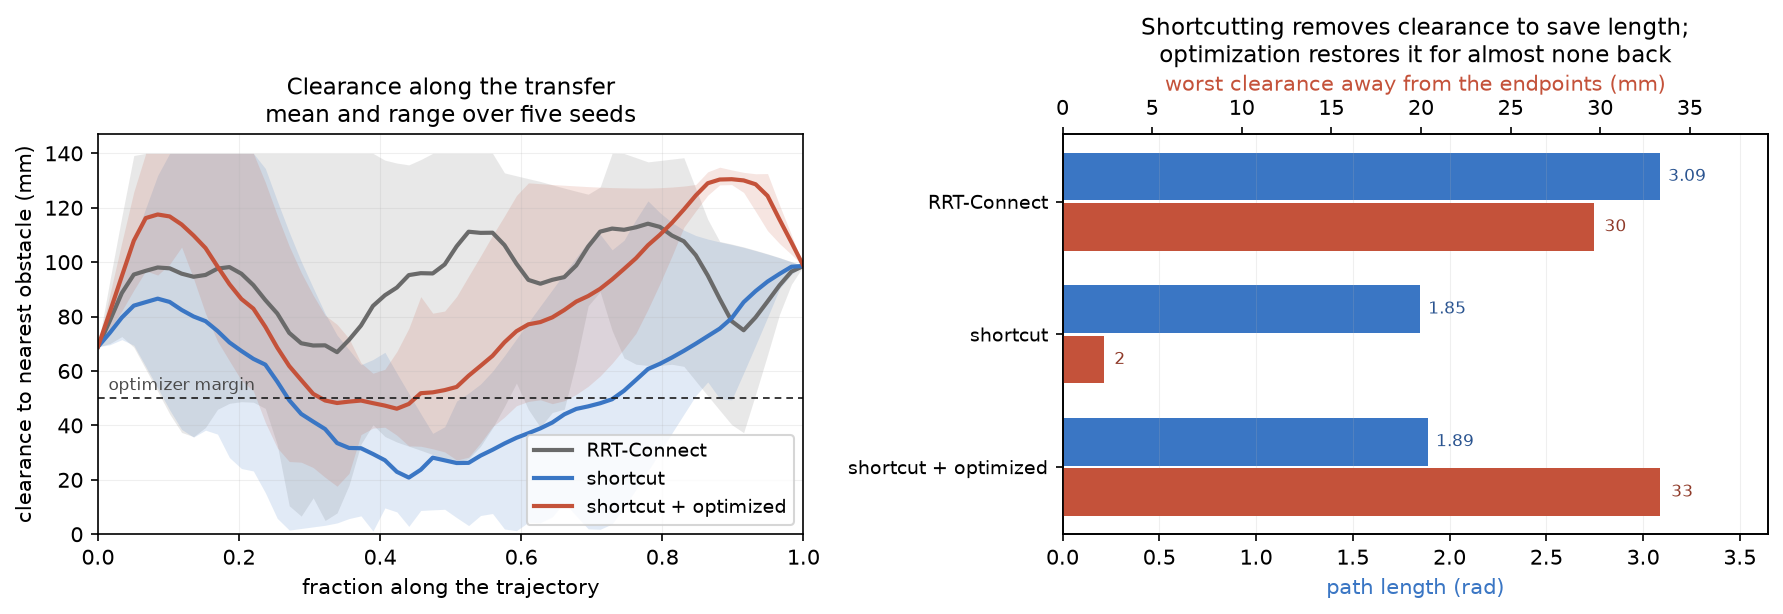
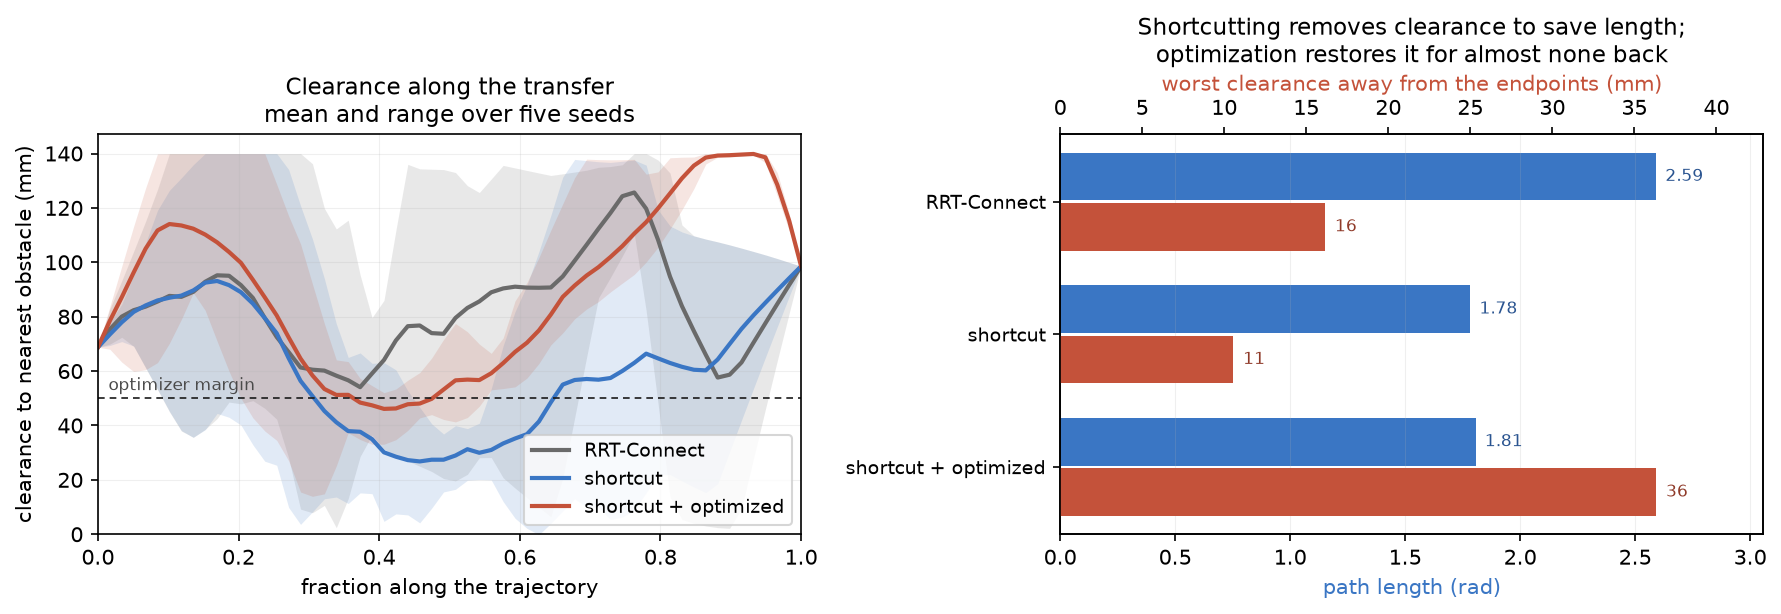
Fix the comparison figure measuring against a mutated world
The figure and examples/run_optimizer_demo.py reported different numbers
for the same query with the same seeds: 3.09 rad against 2.59 for
RRT-Connect. Both ran the same code, so the difference was state.

generate_readme_media.py runs the pick and place sequence before building
the figure, in one simulator. The sequence leaves three things changed, and
each had to be undone: the block ends at the place location rather than the
pick, it is no longer in the obstacle list, and the arm is parked at the
retreat pose. That last one is what produced most of the gap, since IK
seeds from the robot's current joint state, so the comparison was solving
for different endpoints entirely.

The general failure is that PyBullet state is global and mutable, and a
function measuring against a shared simulator either owns its own instance
or restores what it depends on. I found the three pieces one at a time by
guessing rather than by asking what the sequence changes.

Path lengths now agree exactly: 2.59, 1.78, 1.81. The README table is
corrected to the reproducible numbers, along with the percentages in the
prose around it, which were computed from the stale ones.

diff --git a/examples/generate_readme_media.py b/examples/generate_readme_media.py
@@ -28,7 +28,7 @@ from PIL import Image
 
 from src.collision import CollisionChecker
 from src.optimizer import TrajectoryOptimizer, resample
-from src.panda import HOME_CONFIGURATION, Panda
+from src.panda import FINGER_OPEN, HOME_CONFIGURATION, Panda
 from src.pick_place import PickPlace, place_held_body
 from src.rrt_connect import RRTConnect
 from src.scene import build
@@ -204,7 +204,6 @@ def main() -> None:
     panda = Panda(gui=False)
     scene = build("divided")
     checker = CollisionChecker(panda, obstacles=scene.bodies)
-    oracle = SignedDistanceOracle(panda, checker)
     optimizer = TrajectoryOptimizer(model, panda.lower_limits,
                                     panda.upper_limits)
 
@@ -226,8 +225,22 @@ def main() -> None:
     gif = make_gif(panda, result)
     print(f"  {gif} ({gif.stat().st_size / 1e6:.1f} MB)")
 
+    # A fresh checker: the pick and place sequence removes the block from
+    # the obstacle list when it grasps and does not restore it, so reusing
+    # that checker would plan the comparison in a world with no block in it.
+    # The sequence leaves the world changed: the block ends at the place
+    # location and is no longer in the obstacle list. Both have to be undone
+    # before measuring, or the comparison plans around a block that has
+    # already been moved and reports longer paths than the same query does
+    # from a clean start.
     print("building the comparison figure")
-    figure = make_comparison(panda, checker, oracle, optimizer, scene)
+    pb.resetBasePositionAndOrientation(result.block, *result.block_start)
+    panda.set_configuration(HOME_CONFIGURATION)
+    panda.set_gripper(FINGER_OPEN)
+    comparison_checker = CollisionChecker(panda, obstacles=scene.bodies)
+    oracle = SignedDistanceOracle(panda, comparison_checker)
+    figure = make_comparison(panda, comparison_checker, oracle, optimizer,
+                             scene)
     print(f"  {figure} ({figure.stat().st_size / 1e3:.0f} KB)")
 
     panda.disconnect()

diff --git a/README.md b/README.md
@@ -24,14 +24,14 @@ Five seeds on the transfer query, all twenty trajectories verified collision-fre
 
 | method | path length (rad) | roughness | interior clearance |
 | --- | --- | --- | --- |
-| RRT-Connect | 2.34 | 0.0248 | 21.0 mm |
-| shortcut | 1.67 | 0.0053 | 12.1 mm |
-| optimized | 2.12 | 0.0071 | 48.7 mm |
-| shortcut + optimized | 1.71 | 0.0039 | 46.8 mm |
+| RRT-Connect | 2.59 | 0.0319 | 16.5 mm |
+| shortcut | 1.78 | 0.0071 | 11.7 mm |
+| optimized | 2.26 | 0.0079 | 46.7 mm |
+| shortcut + optimized | 1.81 | 0.0042 | 36.6 mm |
 
-Shortcutting halves the roughness and shortens the path by 29 percent, and makes clearance worse: it splices straight lines with no notion of margin, so a shortcut passing a millimetre from the wall is accepted as readily as one with room to spare.
+Shortcutting cuts roughness by more than three quarters and shortens the path by 31 percent, and makes clearance worse: it splices straight lines with no notion of margin, so a shortcut passing a millimetre from the wall is accepted as readily as one with room to spare.
 
-Optimization nearly quadruples clearance for almost no length back. Running both keeps most of each.
+Optimization more than triples clearance over shortcutting alone, for two percent more path. Running both keeps most of each.
 
 Clearance is measured away from the endpoints. The start and goal are fixed IK solutions no method may move, so a whole-path minimum is bounded by whatever clearance they happen to have and reads identically for every method: an earlier version of this table reported the start configuration's clearance as though it were a result.
 
